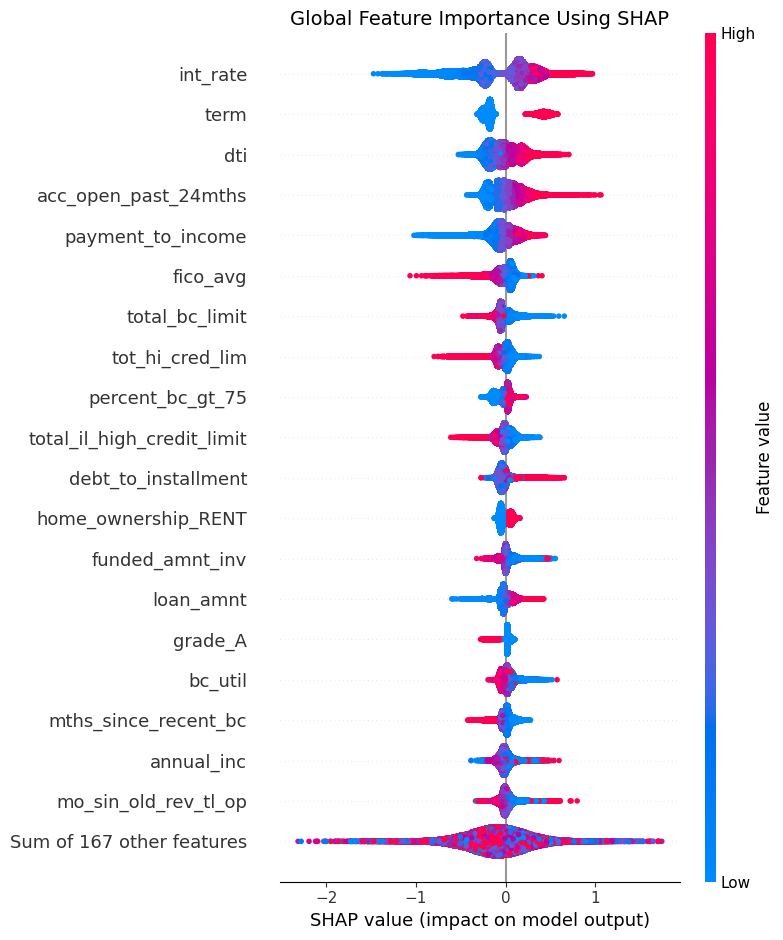
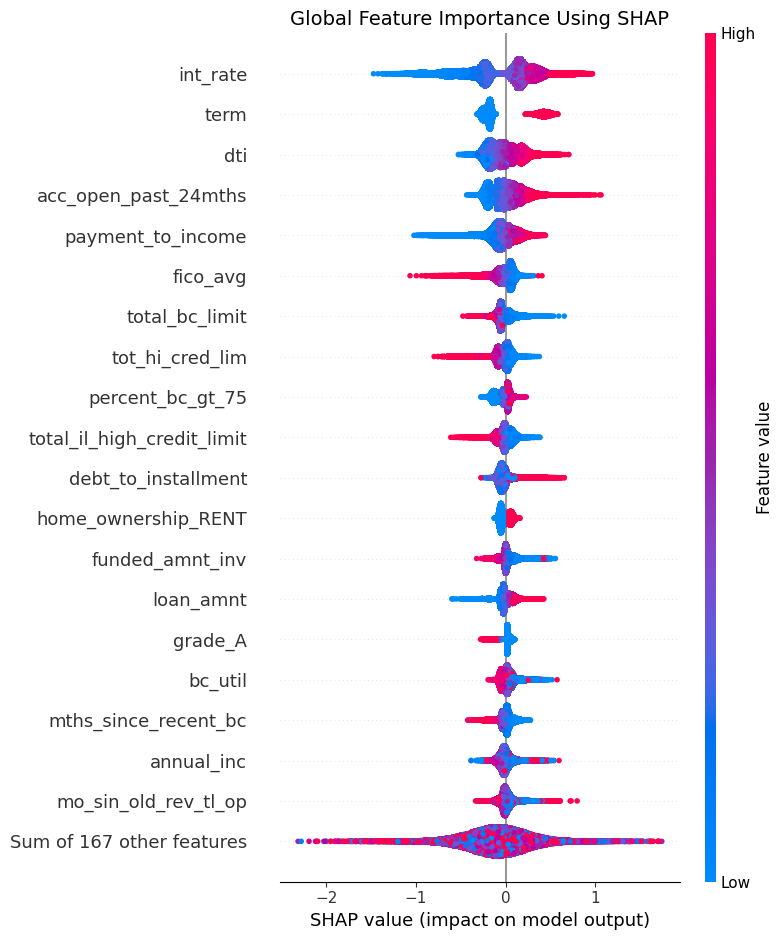
Added SHAP explainability to fastapi use /explain to get reasons for the prediction

diff --git a/app.py b/app.py
@@ -10,6 +10,13 @@ app = FastAPI()
 
 with open('saved_model.pkl', 'rb') as f:
     model = joblib.load(f)
+
+with open('shap_explainer.pkl','rb') as f:
+    explainer = joblib.load(f)
+
+with open('feature_names.pkl','rb') as f:
+    feature_names = joblib.load(f)
+
 class Loan(BaseModel):
     loan_amnt: float
     funded_amnt: float
@@ -85,6 +92,36 @@ class Loan(BaseModel):
     open_acc_ratio: float
 
 
+def getPrediction(data: pd.DataFrame):
+    probabilty = float(model.predict_proba(data)[0][1])
+    decision = "default" if probabilty >=0.45 else "no_default"
+    return probabilty, decision
+
+def get_reason(data:pd.DataFrame, top_n: int = 5):
+    data_transformed = model[:1].transform(data)
+    data_transformed_df = pd.DataFrame(
+        data_transformed,
+        columns=feature_names
+    )
+
+    shap_val = explainer(data_transformed_df)
+    values = shap_val.values[0]
+
+    feature_impact = list(zip(feature_names, values))
+
+    feature_impact.sort(key=lambda x:abs(x[1]), reverse=True)
+
+    reasons= []
+
+    for feature,impact in feature_impact[:top_n]:
+        reasons.append({
+            "feature":feature,
+            "impact":round(float(impact),4),
+            "direction": "increases default risk" if impact > 0 else "decreases default risk"
+        })
+    return reasons
+
+
 @app.get("/")
 def home():
     return {
@@ -102,13 +139,23 @@ def health():
 @app.post("/predict")
 def predict(loan : Loan):
     data = pd.DataFrame([loan.model_dump()])
-
-    probabilty  = float((model.predict_proba(data)[0][1]))
-    prediction = "default" if probabilty >= 0.45 else "no_default"
+    probability, decision = getPrediction(data)
     timestamp = datetime.now(timezone.utc).strftime("%Y-%m-%d %H:%M:%S")
 
     return {
-        'prediction':prediction,
-        'default_probability_percent' : round(probabilty * 100,2),
+        'prediction':decision,
+        'default_probability_percent' : round(probability * 100,2),
         'timestamp' : timestamp
+    }
+
[email redacted]("/explain")
+def explain(loan:Loan):
+    data=pd.DataFrame([loan.model_dump()])
+    probability, decision = getPrediction(data)
+    reasons = get_reason(data)
+    return{
+        "prediction":decision,
+        "default_probability_percent" : round(probability * 100,2),
+        "top_reasons": reasons,
+        "timestamp": datetime.now(timezone.utc).strftime("%Y-%m-%d %H:%M:%S")
     }

diff --git a/README.md b/README.md
@@ -219,9 +219,10 @@ Pipeline configuration:
 
 | Method | Endpoint   | Description                      |
 | ------ | ---------- | -------------------------------- |
+| GET    | `/docs`    | Swagger UI documentation         |
 | GET    | `/health`        | Health check                     |
 | POST   | `/predict` | Predict loan default probability |
-| GET    | `/docs`    | Swagger UI documentation         |
+| POST    | `/explain`    | Get SHAP explainability for the prediction         |
 
 ---
 